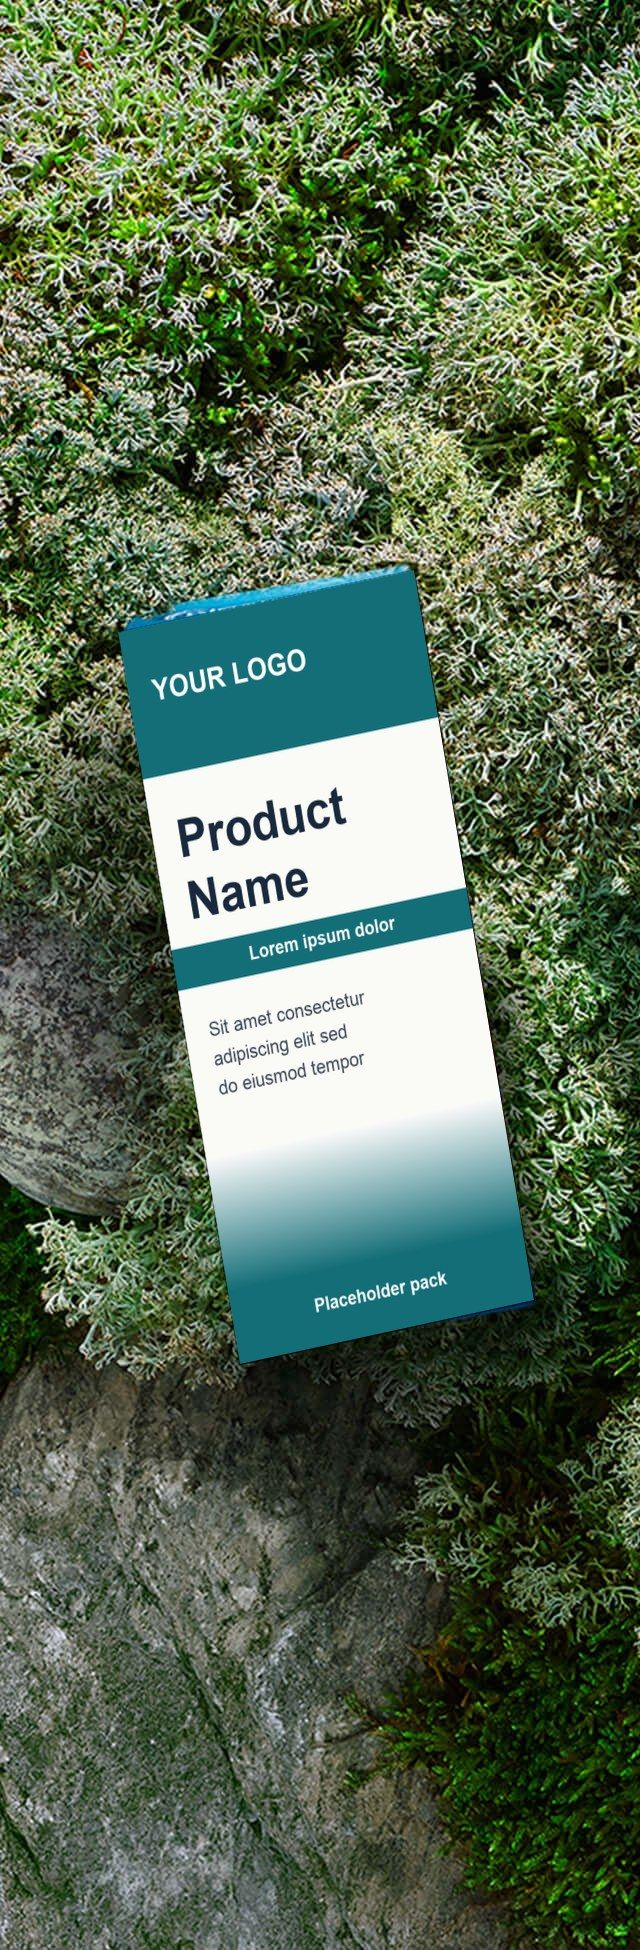
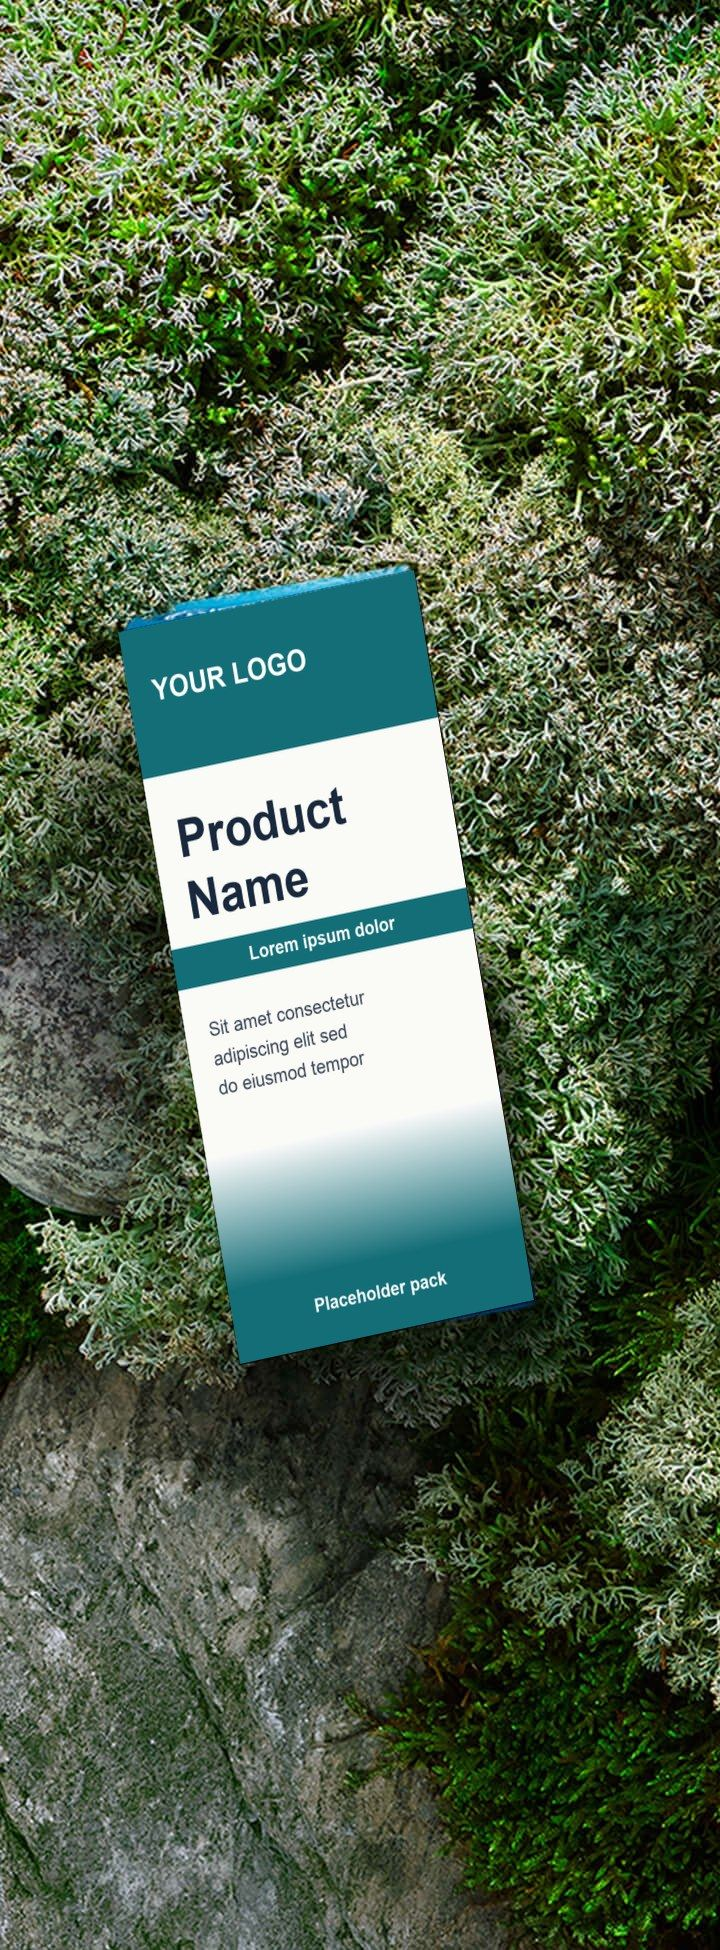
Cut the backgrounds with a margin for the zoom

diff --git a/variant-b/left.html b/variant-b/left.html
@@ -8,7 +8,7 @@
   </head>
   <body data-part="left">
     <div class="stage">
-      <img class="layer bg" src="assets/bg/left.jpg" width="320" height="975" alt="" />
+      <img class="bg" src="assets/bg/left.jpg" width="360" height="975" alt="" />
       <img class="layer logo" src="assets/left/logo.png" width="320" height="975" alt="Your Logo" />
       <img class="layer panel" src="assets/box.png" width="320" height="975" alt="" />
       <img class="layer copy" src="assets/left/hl.png" width="320" height="975" alt="Beruhigt effektiv bei trockenem Reizhusten." />

diff --git a/variant-b/right.html b/variant-b/right.html
@@ -8,7 +8,7 @@
   </head>
   <body data-part="right">
     <div class="stage">
-      <img class="layer bg" src="assets/bg/right.jpg" width="320" height="975" alt="" />
+      <img class="bg" src="assets/bg/right.jpg" width="360" height="975" alt="" />
       <img class="layer logo" src="assets/right/logo.png" width="320" height="975" alt="Your Logo" />
       <img class="layer panel" src="assets/box.png" width="320" height="975" alt="" />
       <img class="layer copy" src="assets/right/hl.png" width="320" height="975" alt="Bildet einen beruhigenden Schutzfilm." />

diff --git a/variant-b/css/fireplace.css b/variant-b/css/fireplace.css
@@ -36,6 +36,28 @@ body {
   display: block;
 }
 
+.bg {
+  position: absolute;
+  top: 0;
+  left: 0;
+  display: block;
+}
+
+[data-part="left"] .bg,
+[data-part="right"] .bg {
+  width: 360px;
+  height: 975px;
+}
+
+[data-part="right"] .bg {
+  left: -40px;
+}
+
+[data-part="top"] .bg {
+  width: 1032px;
+  height: 270px;
+}
+
 .panel {
   clip-path: inset(744.5px 0 61px 0);
   opacity: 0.8; /* measured 0.81–0.82 in layout.png */

diff --git a/variant-b/top.html b/variant-b/top.html
@@ -8,7 +8,7 @@
   </head>
   <body data-part="top">
     <div class="stage">
-      <img class="layer bg" src="assets/bg/top.jpg" width="1032" height="250" alt="" />
+      <img class="bg" src="assets/bg/top.jpg" width="1032" height="270" alt="" />
       <img class="layer headline" src="assets/top/hl.png" width="1032" height="250" alt="Stark bei Hustenreiz &amp; Halsschmerzen." />
     </div>
   </body>

diff --git a/tools/crop_backgrounds.py b/tools/crop_backgrounds.py
@@ -15,9 +15,9 @@ QUALITY = 80
 
 # (left, top, right, bottom) in bg-big.jpg pixels
 CROPS = {
-    "left": (0, 0, 640, 1950),
-    "top": (648, 0, 2712, 500),
-    "right": (2720, 0, 3360, 1950),
+    "left": (0, 0, 720, 1950),
+    "top": (648, 0, 2712, 540),
+    "right": (2640, 0, 3360, 1950),
 }
 
 
